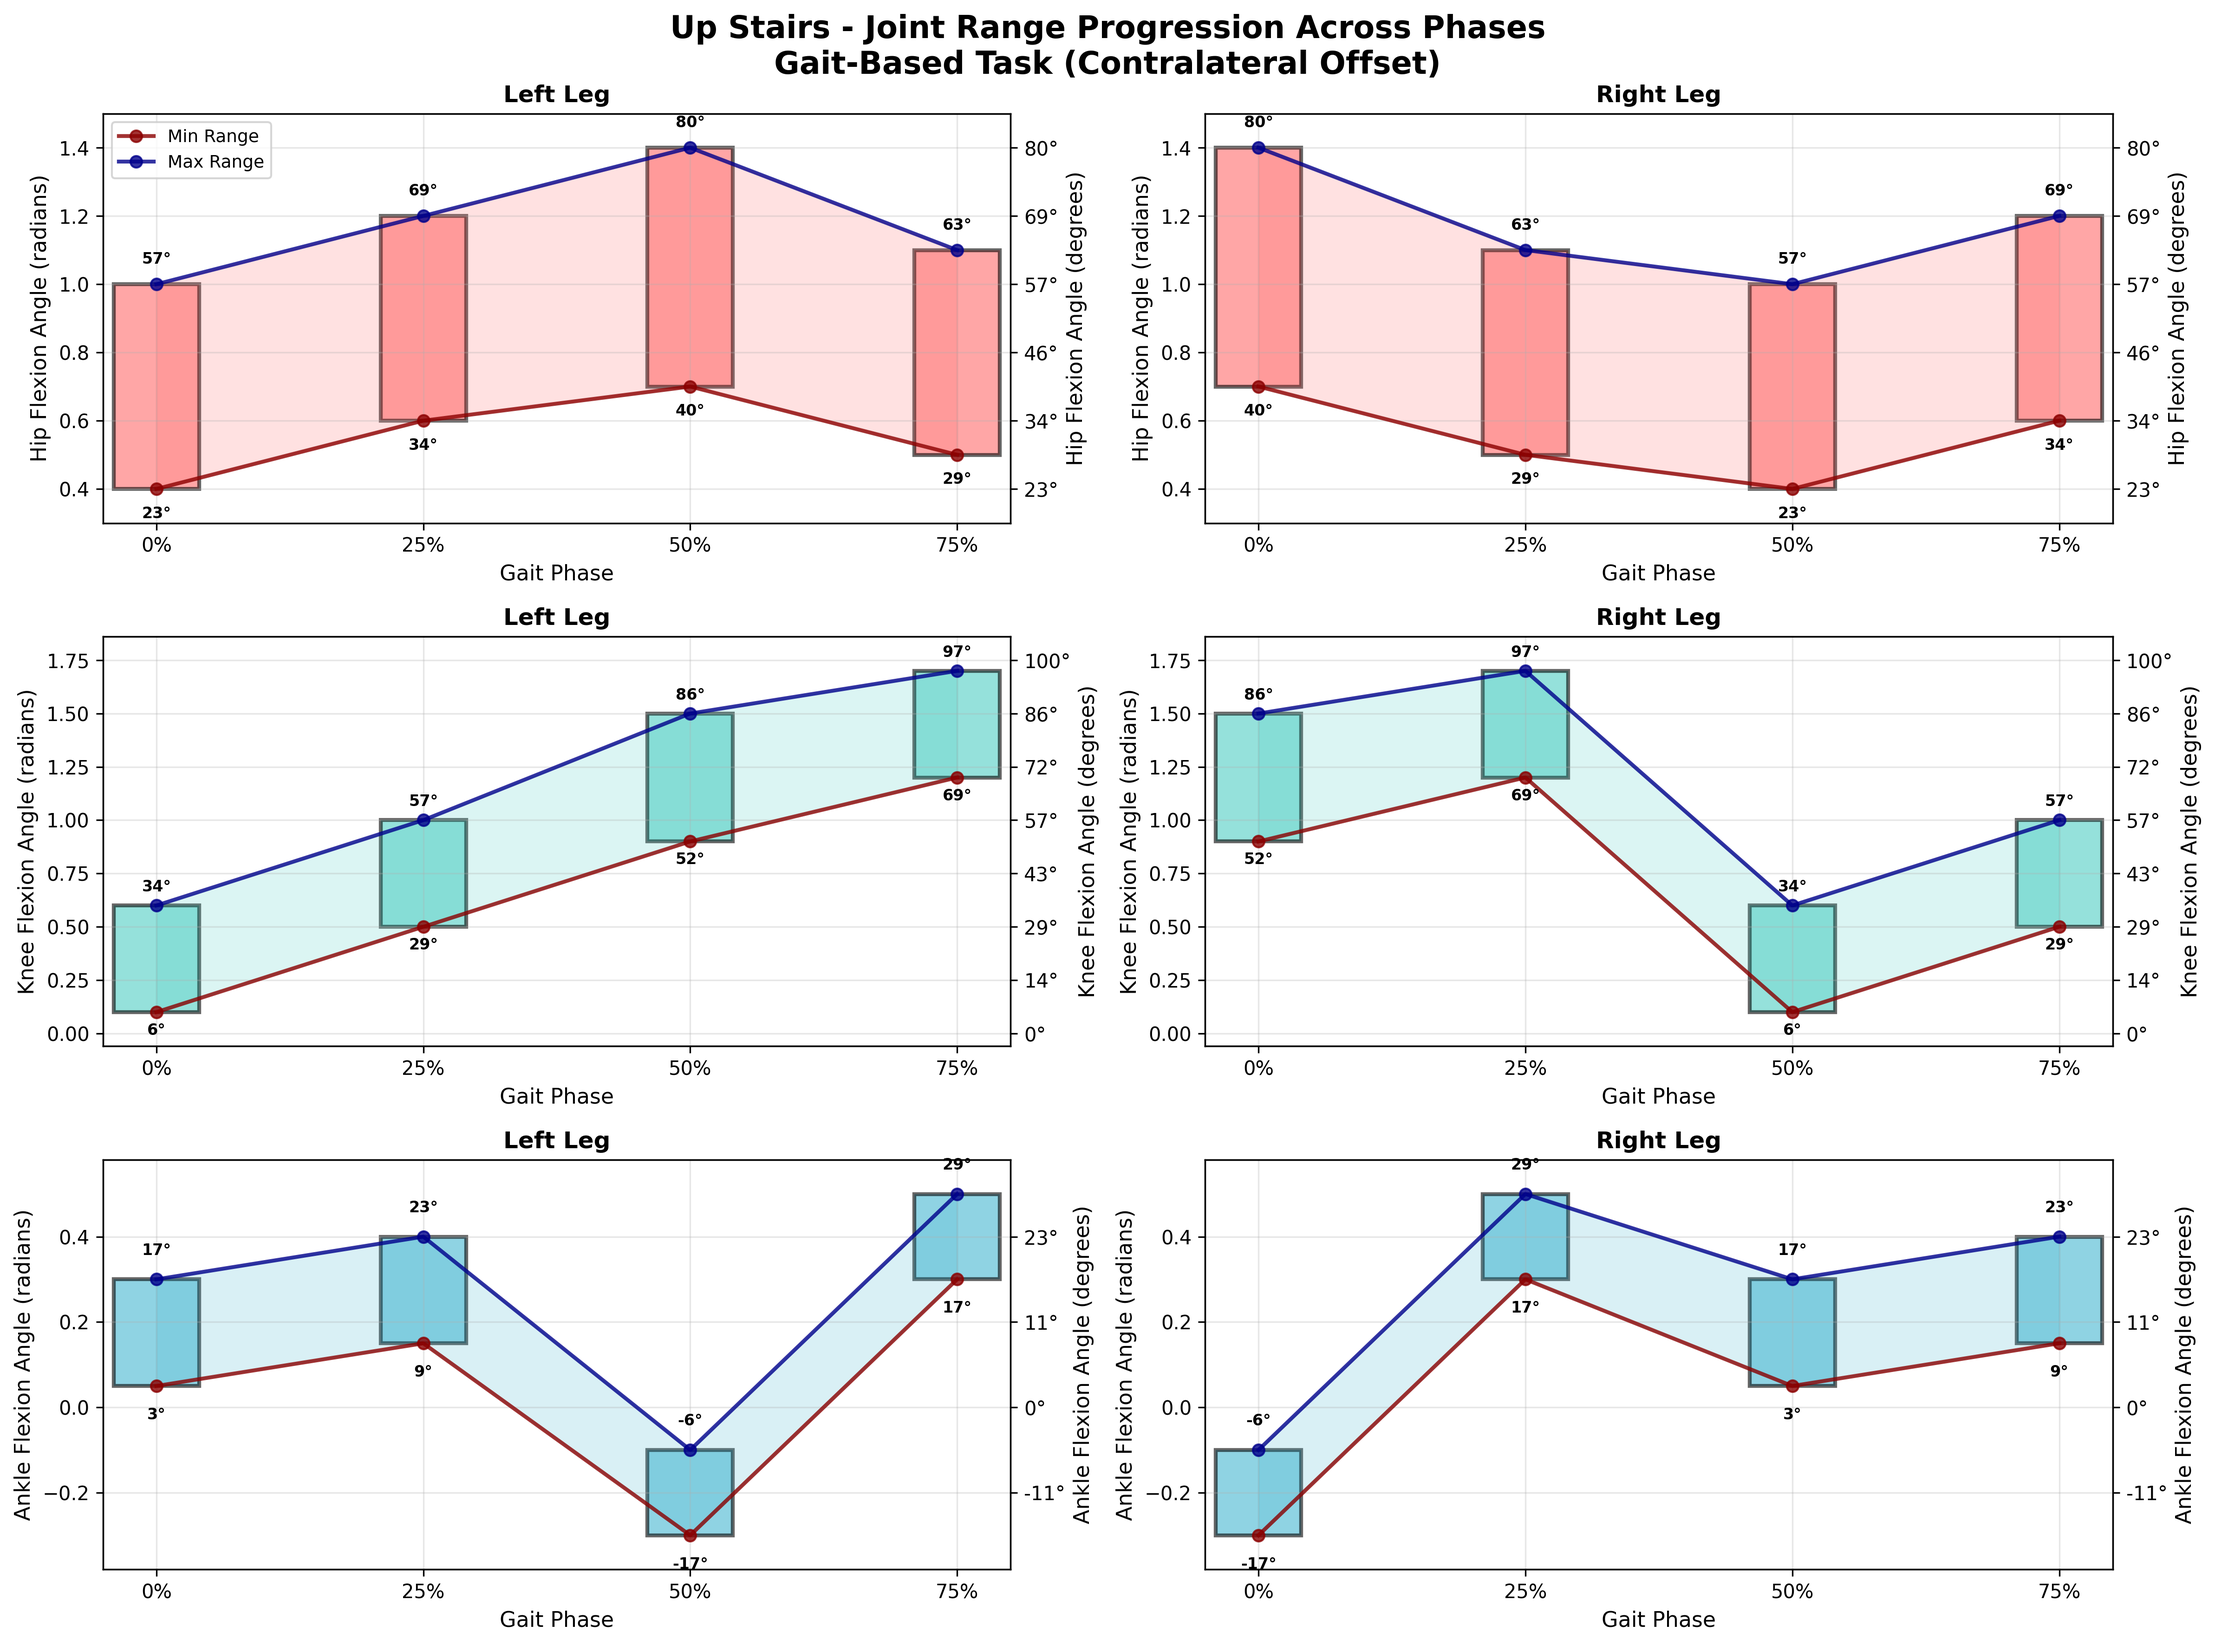
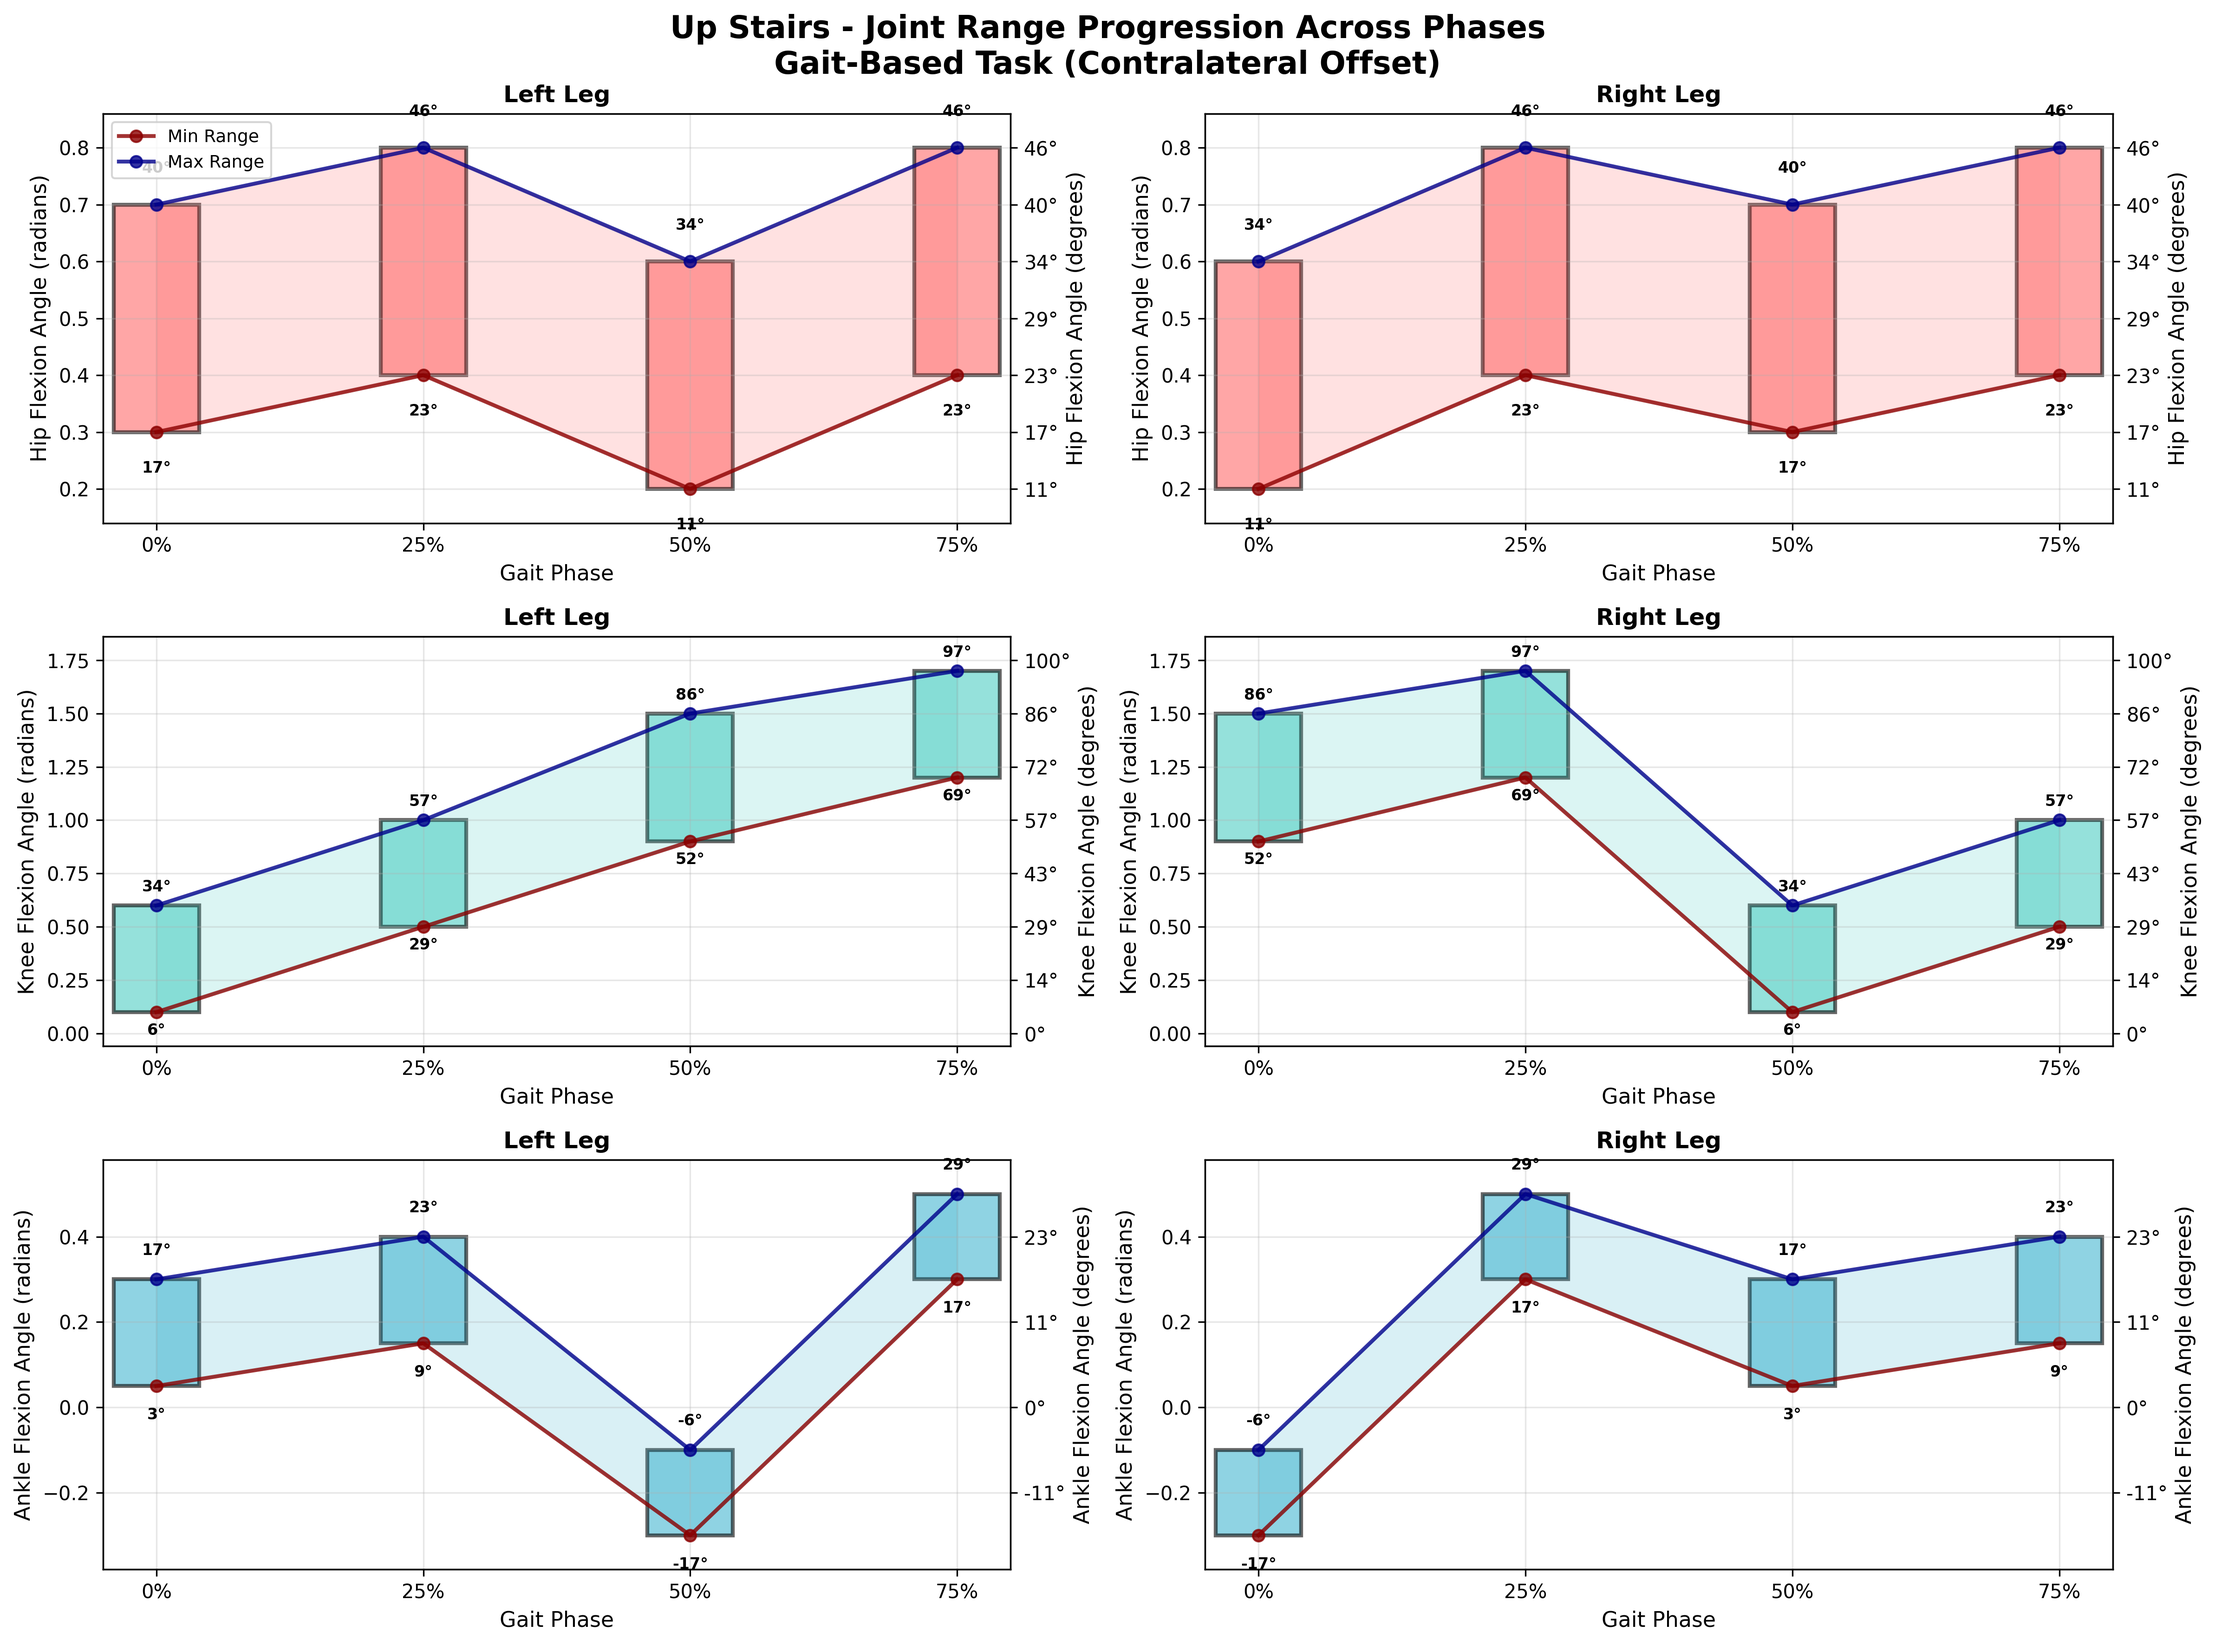
Fix stair climbing hip flexion ranges and clean up validation documentation
- Revised up_stairs hip flexion ranges to be more biomechanically appropriate:
  * Phase 0%: 17-40° (was 23-57°) - Moderate step approach
  * Phase 25%: 23-46° (was 34-69°) - Reduced peak loading flexion
  * Phase 50%: 11-34° (was 40-80°) - Realistic extension for push-off
  * Phase 75%: 23-46° (was 29-63°) - Appropriate swing clearance

- Revised down_stairs hip flexion ranges for better control:
  * Phase 0%: 0-23° (was -3 to 29°) - Controlled initial contact
  * Phase 25%: -6 to 11° (was -11 to 17°) - Tighter control range
  * Phase 50%: -11 to 6° (was -9 to 23°) - More extension for push-off
  * Phase 75%: 11-34° (was 11-40°) - Slightly reduced swing range

- Regenerated all 36 phase range images and 9 phase progression plots
- Fixed biomechanically implausible contralateral hip patterns
- Moved image generation documentation to dedicated guide reference
- Added concise link to kinematic_visualization_guide.md

🤖 Generated with [Claude Code](https://claude.ai/code)

diff --git a/docs/standard_spec/validation_expectations.md b/docs/standard_spec/validation_expectations.md
@@ -4,7 +4,8 @@
 
 This document provides biomechanically verified validation ranges based on published gait analysis literature. The specification uses a modern phase system (0%, 25%, 50%, 75%) with contralateral offset logic for optimal validation efficiency.
 
-> **📋 Version Information**: See [validation_expectations_changelog.md](validation_expectations_changelog.md) for detailed version history and changes.
+> **📋 Version Information**: See [validation_expectations_changelog.md](validation_expectations_changelog.md) for detailed version history and changes.  
+> **🎨 Image Generation**: See [kinematic_visualization_guide.md](kinematic_visualization_guide.md) for generating validation images.
 
 ## Format Specification
 
@@ -254,7 +255,7 @@ This document provides biomechanically verified validation ranges based on publi
 #### Phase 0% (Step Contact)
 | Variable | Min_Value | Max_Value | Units | Notes |
 |----------|-----------|-----------|-------|---------|
-| hip_flexion_angle_left_rad | 0.4 (23°) | 1.0 (57°) | rad | High hip flexion for step approach (23-57°) |
+| hip_flexion_angle_left_rad | 0.3 (17°) | 0.7 (40°) | rad | Moderate hip flexion for step approach (17-40°) |
 | knee_flexion_angle_left_rad | 0.1 (6°) | 0.6 (34°) | rad | Controlled loading on step (6-34°) |
 | ankle_flexion_angle_left_rad | 0.05 (3°) | 0.3 (17°) | rad | Dorsiflexion for step contact (3-17°) |
 | vertical_grf_N | 600 | 1800 | N | High vertical forces for lifting |
@@ -264,7 +265,7 @@ This document provides biomechanically verified validation ranges based on publi
 #### Phase 25% (Loading)
 | Variable | Min_Value | Max_Value | Units | Notes |
 |----------|-----------|-----------|-------|---------|
-| hip_flexion_angle_left_rad | 0.6 (34°) | 1.2 (69°) | rad | Peak hip flexion for lifting (34-69°) |
+| hip_flexion_angle_left_rad | 0.4 (23°) | 0.8 (46°) | rad | Hip flexion for lifting (23-46°) |
 | knee_flexion_angle_left_rad | 0.5 (29°) | 1.0 (57°) | rad | Eccentric to concentric transition (29-57°) |
 | ankle_flexion_angle_left_rad | 0.15 (9°) | 0.4 (23°) | rad | **VERIFIED: Dorsiflexion maintenance (9-23°)** |
 | vertical_grf_N | 800 | 2000 | N | Peak vertical lifting forces |
@@ -274,7 +275,7 @@ This document provides biomechanically verified validation ranges based on publi
 #### Phase 50% (Toe-Off)
 | Variable | Min_Value | Max_Value | Units | Notes |
 |----------|-----------|-----------|-------|---------|
-| hip_flexion_angle_left_rad | 0.7 (40°) | 1.4 (80°) | rad | Hip flexion for vertical lift (40-80°) |
+| hip_flexion_angle_left_rad | 0.2 (11°) | 0.6 (34°) | rad | Hip extension for vertical lift (11-34°) |
 | knee_flexion_angle_left_rad | 0.9 (52°) | 1.5 (86°) | rad | **VERIFIED: Concentric extension phase (52-86°)** |
 | ankle_flexion_angle_left_rad | -0.3 (-17°) | -0.1 (-6°) | rad | **VERIFIED: Plantarflexion for push-off (-17 to -6°)** |
 | vertical_grf_N | 1000 | 2200 | N | Maximum lifting forces |
@@ -284,7 +285,7 @@ This document provides biomechanically verified validation ranges based on publi
 #### Phase 75% (Mid-Swing)
 | Variable | Min_Value | Max_Value | Units | Notes |
 |----------|-----------|-----------|-------|---------|
-| hip_flexion_angle_left_rad | 0.5 (29°) | 1.1 (63°) | rad | Hip position at step completion (29-63°) |
+| hip_flexion_angle_left_rad | 0.4 (23°) | 0.8 (46°) | rad | Hip flexion for swing clearance (23-46°) |
 | knee_flexion_angle_left_rad | 1.2 (69°) | 1.7 (97°) | rad | Swing leg peak flexion (69-97°) |
 | ankle_flexion_angle_left_rad | 0.3 (17°) | 0.5 (29°) | rad | Maximum dorsiflexion (17-29°) |
 | vertical_grf_N | 0 | 300 | N | Minimal forces during swing |
@@ -314,7 +315,7 @@ This document provides biomechanically verified validation ranges based on publi
 #### Phase 0% (Step Contact)
 | Variable | Min_Value | Max_Value | Units | Notes |
 |----------|-----------|-----------|-------|---------|
-| hip_flexion_angle_left_rad | -0.05 (-3°) | 0.5 (29°) | rad | Controlled hip position for descent (-3 to 29°) |
+| hip_flexion_angle_left_rad | 0.0 (0°) | 0.4 (23°) | rad | Controlled hip position for descent (0 to 23°) |
 | knee_flexion_angle_left_rad | 0.0 (0°) | 0.4 (23°) | rad | Initial contact absorption (0-23°) |
 | ankle_flexion_angle_left_rad | -0.15 (-9°) | 0.05 (3°) | rad | Controlled landing (-9 to 3°) |
 | vertical_grf_N | 800 | 2200 | N | High impact absorption |
@@ -324,7 +325,7 @@ This document provides biomechanically verified validation ranges based on publi
 #### Phase 25% (Loading)
 | Variable | Min_Value | Max_Value | Units | Notes |
 |----------|-----------|-----------|-------|---------|
-| hip_flexion_angle_left_rad | -0.2 (-11°) | 0.3 (17°) | rad | Hip extension for control (-11 to 17°) |
+| hip_flexion_angle_left_rad | -0.1 (-6°) | 0.2 (11°) | rad | Hip extension for control (-6 to 11°) |
 | knee_flexion_angle_left_rad | 0.3 (17°) | 0.8 (46°) | rad | Eccentric loading peak (17-46°) |
 | ankle_flexion_angle_left_rad | 0.0 (0°) | 0.2 (11°) | rad | **VERIFIED: Controlled dorsiflexion (0-11°)** |
 | vertical_grf_N | 1000 | 2500 | N | Peak eccentric loading |
@@ -334,7 +335,7 @@ This document provides biomechanically verified validation ranges based on publi
 #### Phase 50% (Toe-Off)
 | Variable | Min_Value | Max_Value | Units | Notes |
 |----------|-----------|-----------|-------|---------|
-| hip_flexion_angle_left_rad | -0.15 (-9°) | 0.4 (23°) | rad | Hip position for push-off (-9 to 23°) |
+| hip_flexion_angle_left_rad | -0.2 (-11°) | 0.1 (6°) | rad | Hip extension for push-off (-11 to 6°) |
 | knee_flexion_angle_left_rad | 0.7 (40°) | 1.1 (63°) | rad | **VERIFIED: Controlled extension (40-63°)** |
 | ankle_flexion_angle_left_rad | -0.35 (-20°) | -0.15 (-9°) | rad | **VERIFIED: Push-off preparation (-20 to -9°)** |
 | vertical_grf_N | 600 | 1800 | N | Controlled push-off |
@@ -344,7 +345,7 @@ This document provides biomechanically verified validation ranges based on publi
 #### Phase 75% (Mid-Swing)
 | Variable | Min_Value | Max_Value | Units | Notes |
 |----------|-----------|-----------|-------|---------|
-| hip_flexion_angle_left_rad | 0.2 (11°) | 0.7 (40°) | rad | Swing hip flexion (11-40°) |
+| hip_flexion_angle_left_rad | 0.2 (11°) | 0.6 (34°) | rad | Swing hip flexion (11-34°) |
 | knee_flexion_angle_left_rad | 1.0 (57°) | 1.4 (80°) | rad | Swing clearance (57-80°) |
 | ankle_flexion_angle_left_rad | 0.0 (0°) | 0.3 (17°) | rad | Clearance dorsiflexion (0-17°) |
 | vertical_grf_N | 0 | 250 | N | Minimal swing forces |
